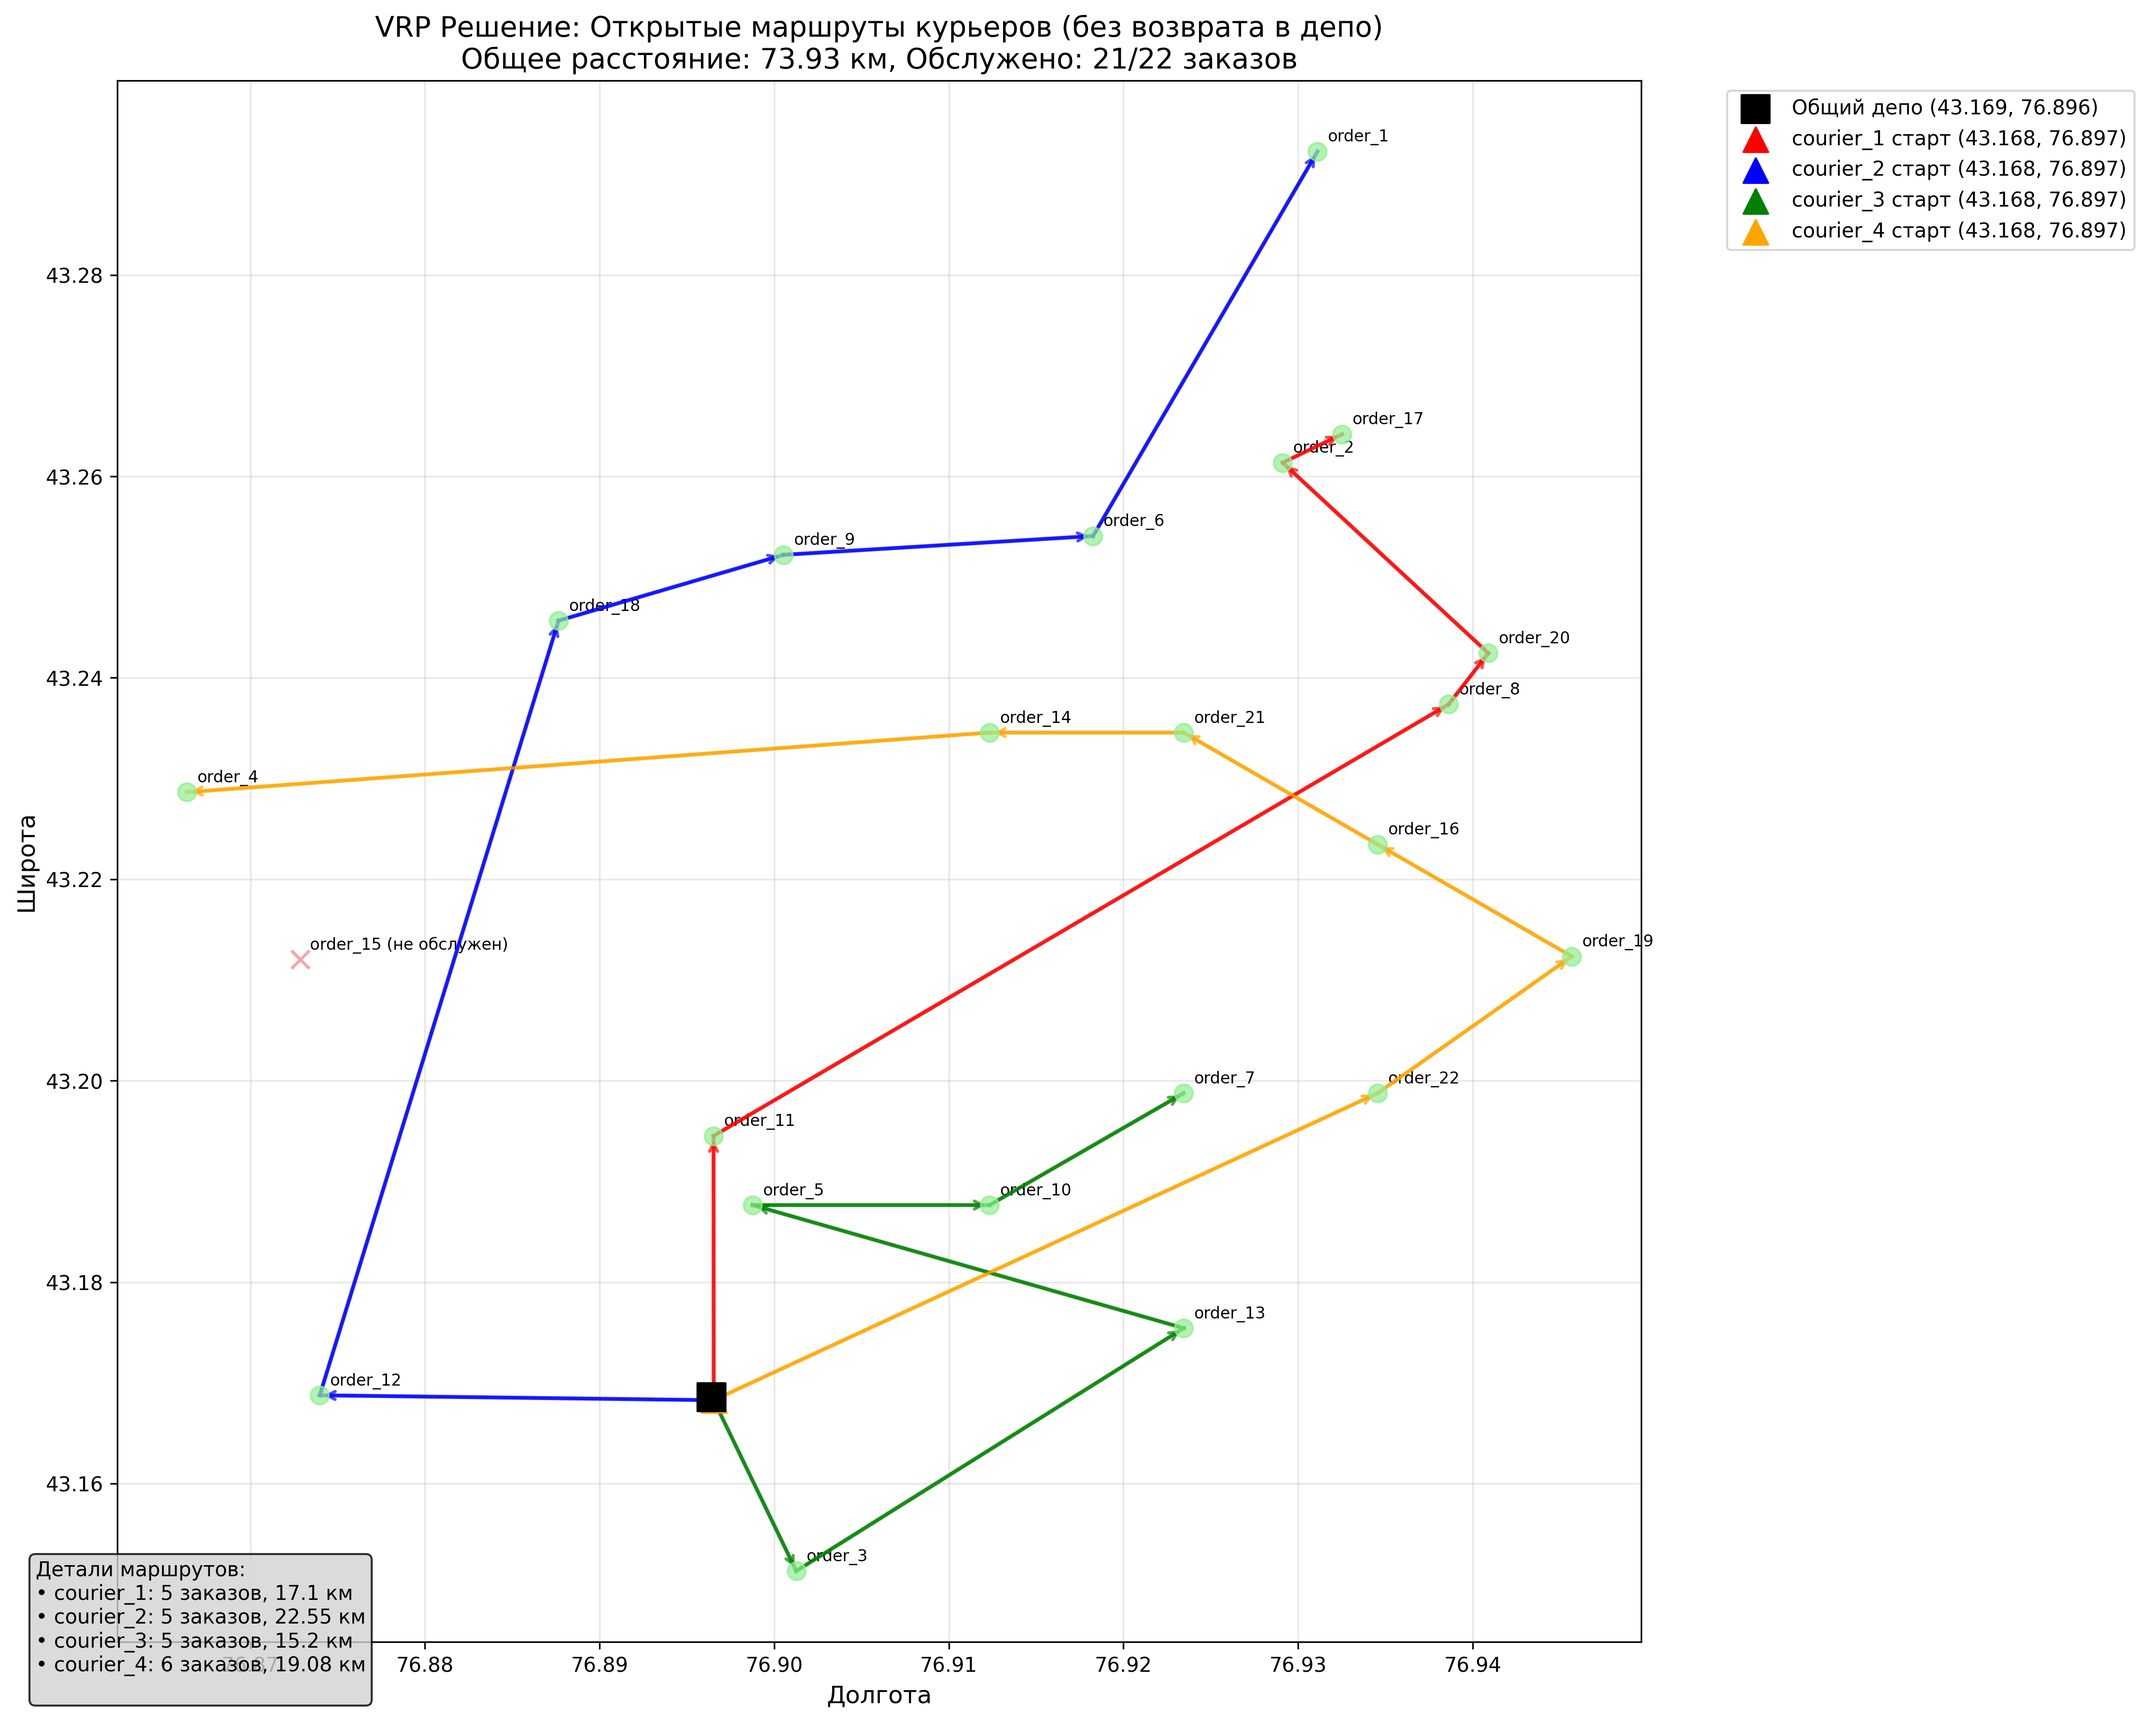
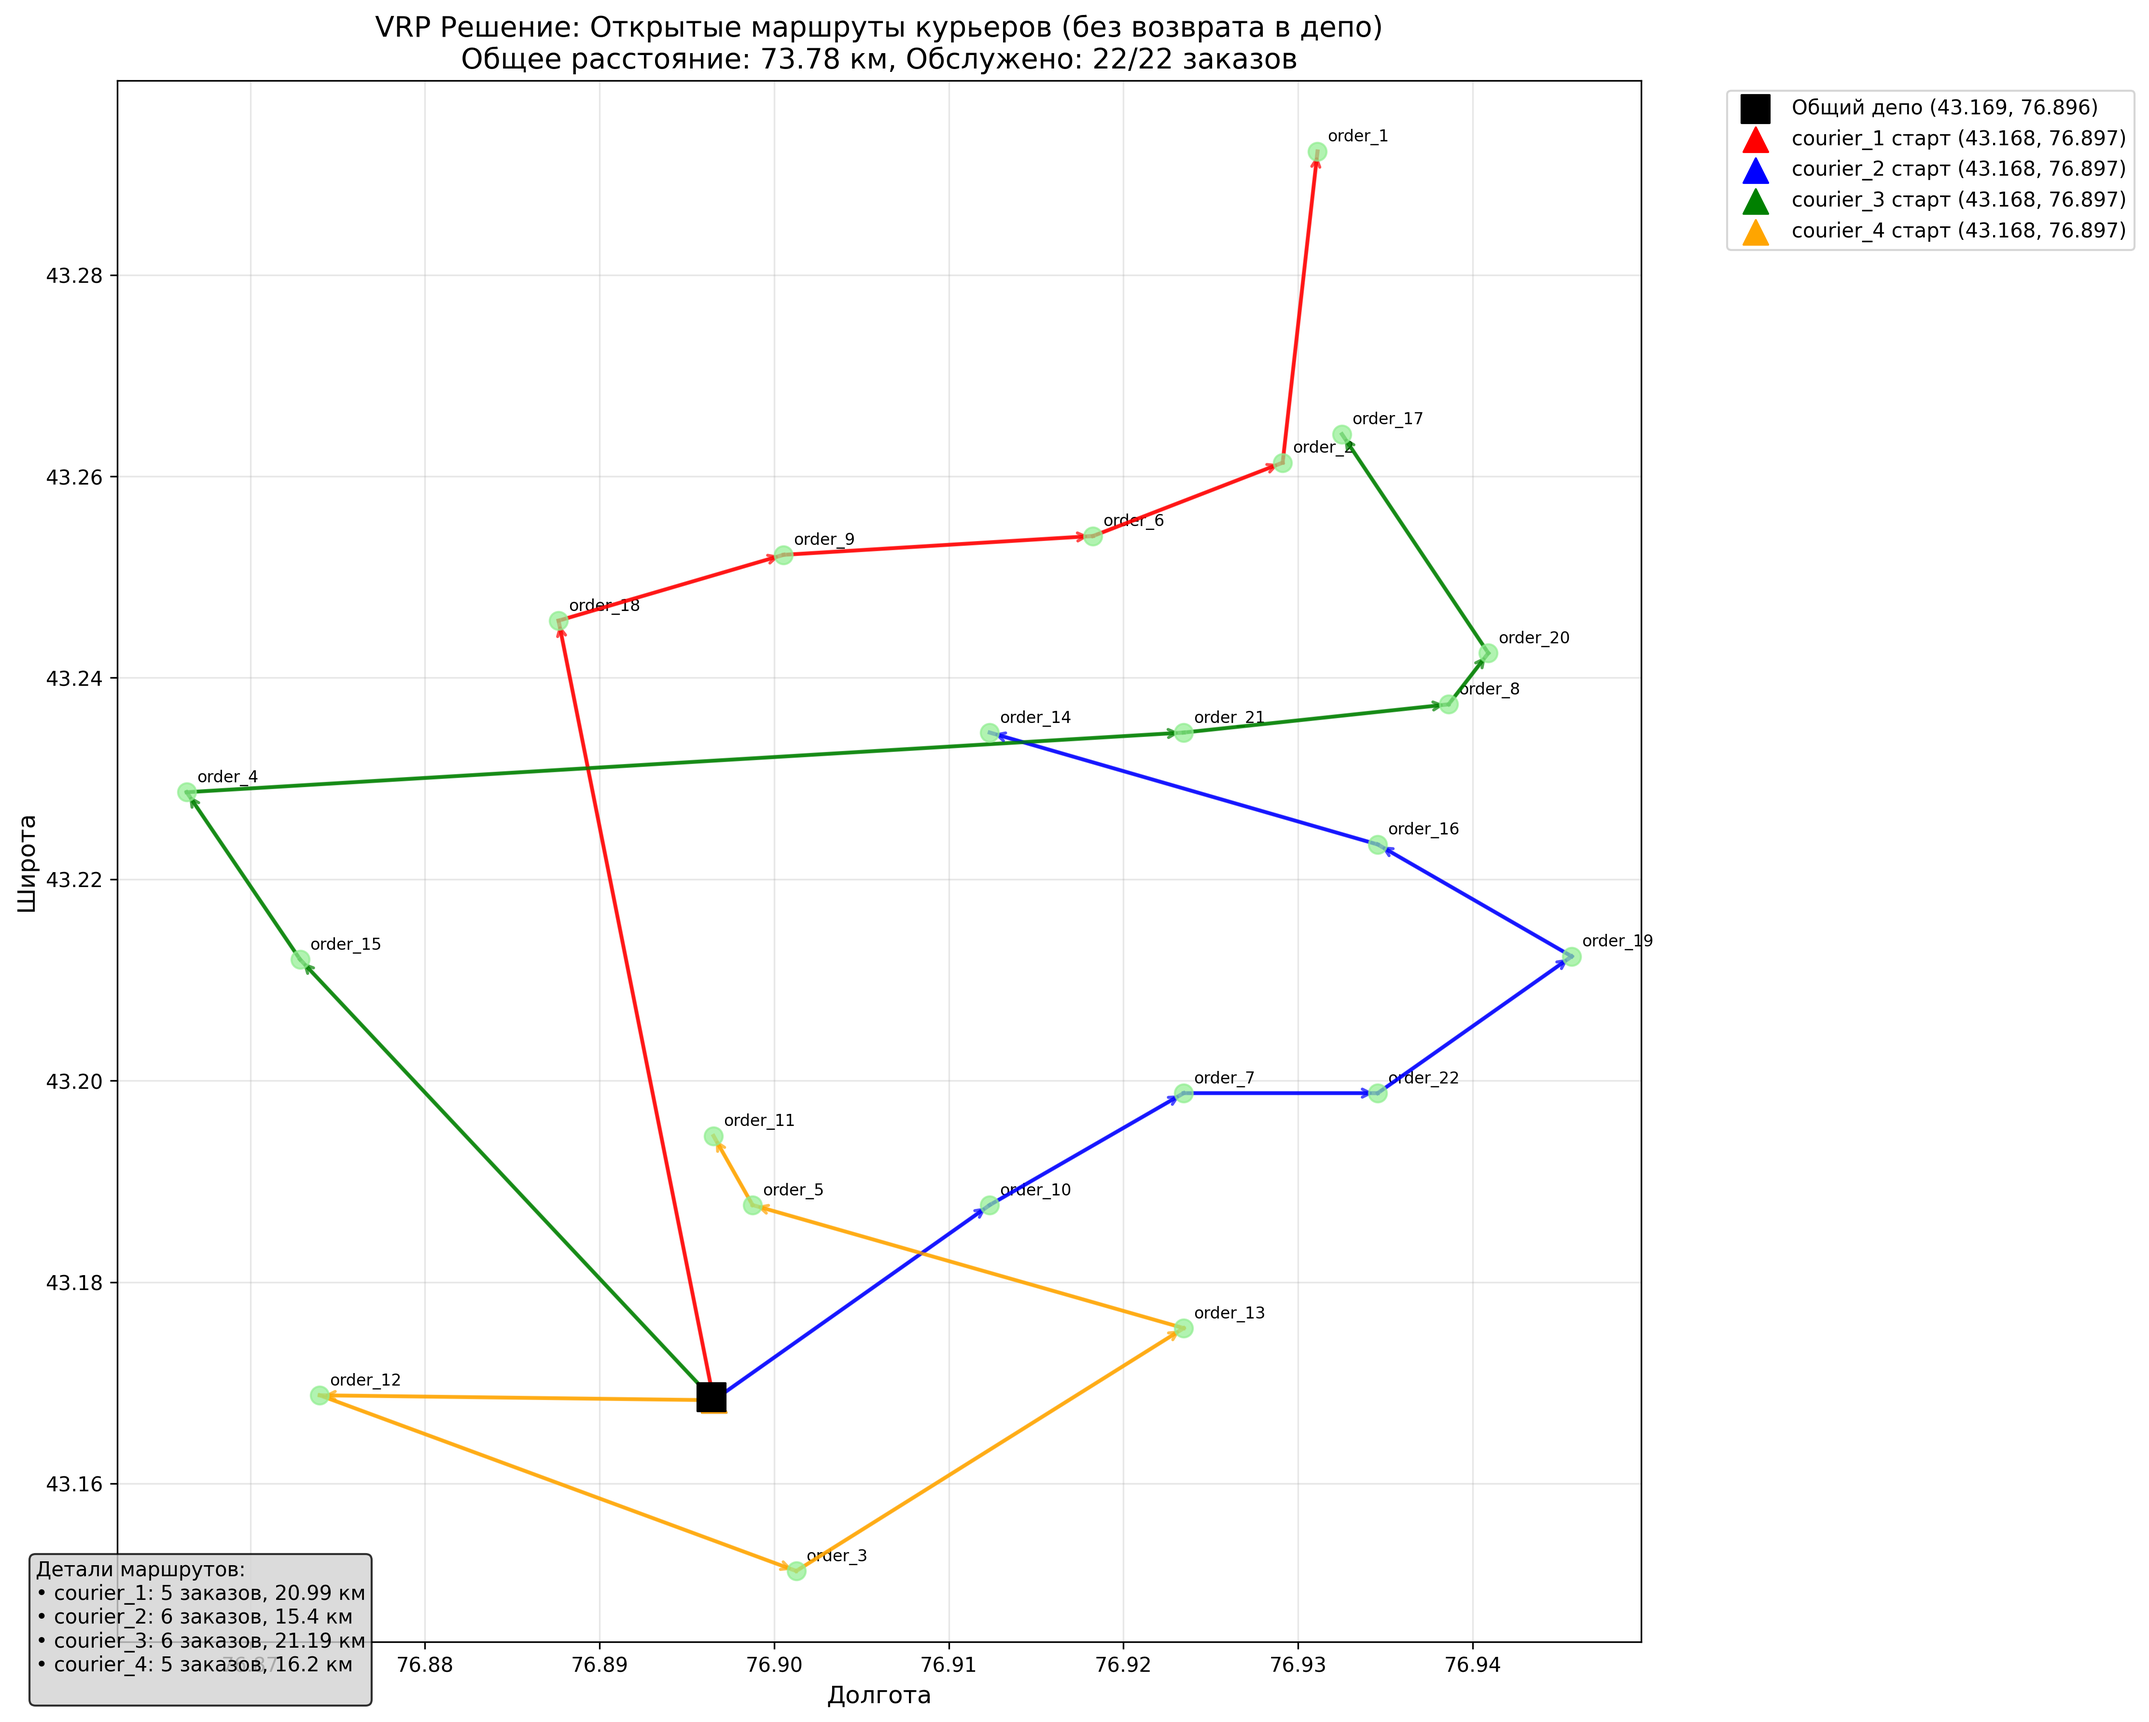
09.07.2025 распределение с указанием сколько бутылей нужно забрать

diff --git a/orTools.js b/orTools.js
@@ -325,7 +325,7 @@ export default async function orTools() {
     //     return acc;
     // }, {});
 
-    return
+    // return
 
     // Пример вызова:
     const couriers = [
@@ -334,28 +334,32 @@ export default async function orTools() {
             lat: 43.168277314921774,
             lon: 76.89654142009347,
             capacity_12: 10,
-            capacity_19: 33
+            capacity_19: 33,
+            capacity: 40
         },
         {
             id: 'courier_2', 
             lat: 43.168277314921774,
             lon: 76.89654142009347,
             capacity_12: 0,
-            capacity_19: 43
+            capacity_19: 0,
+            capacity: 40
         },
         {
             id: 'courier_3',
             lat: 43.168277314921774,
             lon: 76.89654142009347,
-            capacity_12: 0,
-            capacity_19: 16,
+            capacity_12: 5,
+            capacity_19: 40,
+            capacity: 50
         },
         {
             id: 'courier_4',
             lat: 43.168277314921774,
             lon: 76.89654142009347,
-            capacity_12: 20,
-            capacity_19: 20
+            capacity_12: 0,
+            capacity_19: 0,
+            capacity: 16
         }
     ]
   
@@ -391,10 +395,6 @@ export default async function orTools() {
     console.log("количество курьеров = ", couriers.length)
     console.log("количество заказов = ", orders.length)
     console.log("ограничения на заказы = ", courier_restrictions)
-
-    console.log("couriers = ", couriers)
-    console.log("orders = ", orders)
-    console.log("courier_restrictions = ", courier_restrictions)
     
     // Проверяем, есть ли данные для обработки
     if (couriers.length === 0) {
@@ -411,6 +411,17 @@ export default async function orTools() {
     console.log("Готовые маршруты:", result);
 
     await runPythonVisualize(couriers, orders, result);
+
+
+    for (const route of result) {
+        console.log(`✅ Курьер ${route.courier_id} получил ${route.orders.length} заказов`);
+        console.log(`   Требуется бутылок: 12л=${route.required_bottles.bottles_12}, 19л=${route.required_bottles.bottles_19}, всего=${route.required_bottles.total}`);
+        console.log(`   Курьер должен взять: 12л=${route.courier_should_take.bottles_12}, 19л=${route.courier_should_take.bottles_19}, всего=${route.courier_should_take.total}`);
+        console.log(`   Использование вместимости: ${route.capacity_utilization.percent}%`);
+    }
+
+
+
     return
 
     const aquaMarket = await AquaMarket.findOne({
@@ -420,6 +431,19 @@ export default async function orTools() {
 
     for (const route of result) {
         const courier = await CourierAggregator.findById(route.courier_id);
+        
+        // Обновляем информацию о бутылках для курьера на основе нового расчета
+        await CourierAggregator.updateOne(
+            { _id: courier._id },
+            { 
+                $set: { 
+                    requiredBottles: route.required_bottles,
+                    courierShouldTake: route.courier_should_take,
+                    capacityUtilization: route.capacity_utilization
+                }
+            }
+        );
+        
         for (const orderId of route.orders) {
             await Order.findByIdAndUpdate(orderId, { $set: { courierAggregator: courier._id } });
             const order = await Order.findById(orderId).populate("client");
@@ -454,6 +478,10 @@ export default async function orTools() {
             );
         }
         
+        console.log(`✅ Курьер ${courier.fullName} получил ${route.orders.length} заказов`);
+        console.log(`   Требуется бутылок: 12л=${route.required_bottles.bottles_12}, 19л=${route.required_bottles.bottles_19}, всего=${route.required_bottles.total}`);
+        console.log(`   Курьер должен взять: 12л=${route.courier_should_take.bottles_12}, 19л=${route.courier_should_take.bottles_19}, всего=${route.courier_should_take.total}`);
+        console.log(`   Использование вместимости: ${route.capacity_utilization.percent}%`);
     }
 
     console.log("✅ Маршруты назначены");

diff --git a/Controllers/CourierAggregatorController.js b/Controllers/CourierAggregatorController.js
@@ -371,7 +371,7 @@ export const updateCourierAggregatorData = async (req, res) => {
         })
 
         try {
-            if ((changeField === "onTheLine" && changeData) || (changeField === "capacities")) {
+            if ((changeField === "onTheLine" && changeData) || (changeField === "capacities" && courier.onTheLine)) {
                 await orTools();
             }
 
